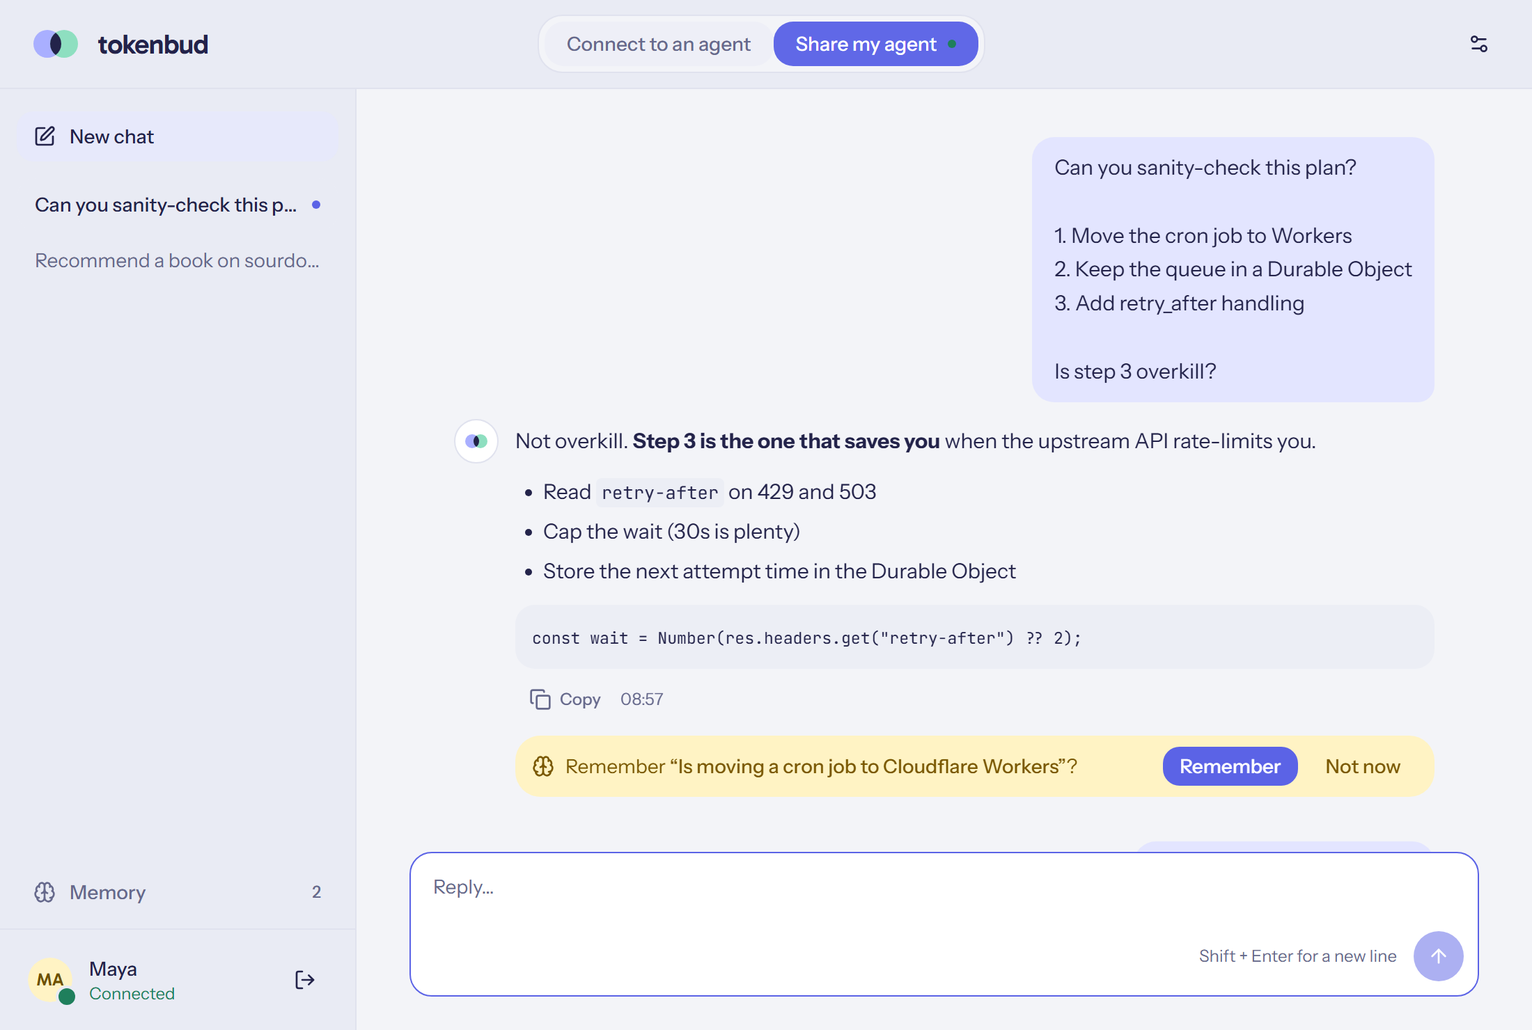
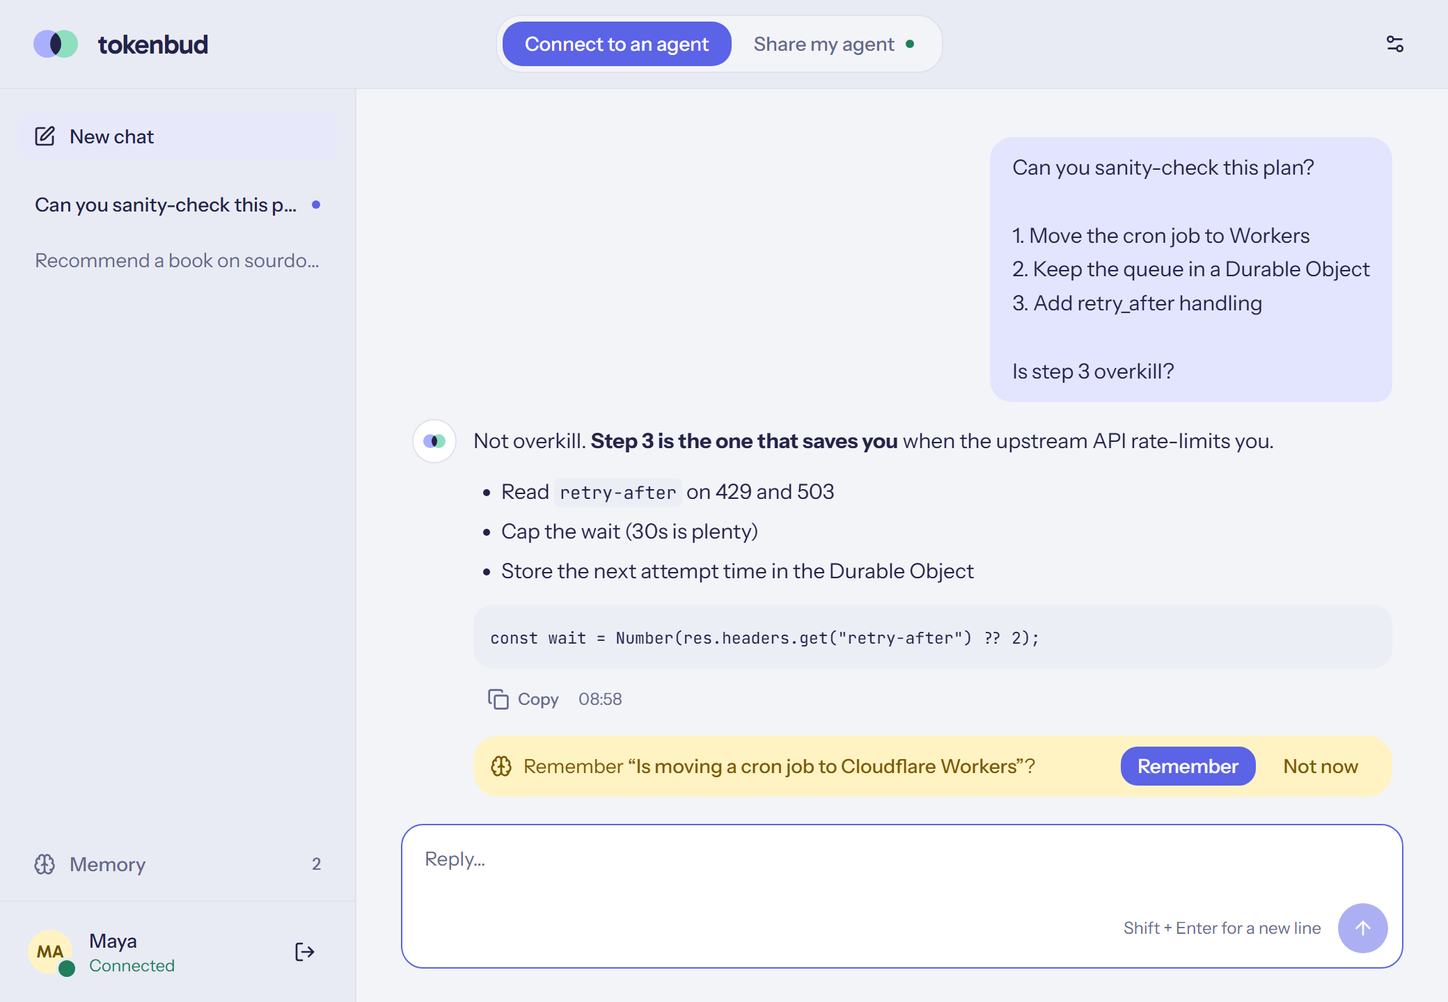
Add release workflow, official README and two-column host layout
- GitHub Actions workflow builds Windows, macOS and Linux installers
  on version tags and attaches them to a draft release
- README rewritten for the public release: badges, screenshots,
  self-hosted relay guide, notes on provider terms
- Host mode lays out in two columns when the window is wide
- Refreshed screenshots; removed unused old-brand icons

diff --git a/desktop/src/host/App.tsx b/desktop/src/host/App.tsx
@@ -20,7 +20,8 @@ export function HostApp({ onSettings }: { onSettings: (section: SettingsSection)
 
   return (
     <div className="h-full overflow-y-auto">
-      <main className="mx-auto w-full max-w-2xl space-y-5 px-8 py-7">
+      {/* One column in a narrow window; side by side once there's room (the window keeps its size). */}
+      <main className="mx-auto w-full max-w-5xl px-6 py-7 sm:px-8">
         <div className="flex items-center justify-between">
           <h1 className="font-display text-2xl font-semibold">Share your agent</h1>
           <label className="flex cursor-pointer items-center gap-3 text-sm font-medium">
@@ -28,9 +29,13 @@ export function HostApp({ onSettings }: { onSettings: (section: SettingsSection)
             <Switch checked={state.status !== "stopped"} onCheckedChange={(on) => call("set_sharing", { on })} aria-label="Share" />
           </label>
         </div>
-        <Credentials state={state} />
-        <Seats state={state} />
-        <Summary state={state} onSettings={onSettings} />
+        <div className="mt-5 grid items-start gap-5 min-[900px]:grid-cols-[minmax(0,1.15fr)_minmax(0,1fr)]">
+          <div className="space-y-5">
+            <Credentials state={state} />
+            <Summary state={state} onSettings={onSettings} />
+          </div>
+          <Seats state={state} />
+        </div>
       </main>
     </div>
   );

diff --git a/README.md b/README.md
@@ -1,92 +1,119 @@
+<div align="center">
+
+<img src="docs/logo.svg" width="96" alt="" />
+
 # tokenbud
 
-Share your AI agent the way you'd share your screen with TeamViewer. You open **tokenbud**, switch to **Share my agent**, and give someone your **ID** and **password**. They type both into tokenbud's **Connect to an agent** mode, or into the tokenbud web page with nothing to install, and chat with your agent. Your Claude login or API key never leaves your computer.
+**Share your AI the way you share your screen.**
+
+Give someone an ID and a password, and they can chat with the model on your computer or your API account. Your keys and your files never leave your machine.
+
+[![License: MIT](https://img.shields.io/badge/license-MIT-5b63e6)](LICENSE)
+[![Platforms](https://img.shields.io/badge/platforms-Windows%20%7C%20macOS%20%7C%20Linux-23234a)](../../releases/latest)
+[![Built with Tauri 2](https://img.shields.io/badge/Tauri-2-24c8db?logo=tauri&logoColor=white)](https://tauri.app)
+[![Rust](https://img.shields.io/badge/Rust-stable-dea584?logo=rust&logoColor=white)](https://www.rust-lang.org)
+[![Relay on Cloudflare Workers](https://img.shields.io/badge/relay-Cloudflare%20Workers-f38020?logo=cloudflare&logoColor=white)](https://workers.cloudflare.com)
+[![Models](https://img.shields.io/badge/models-Ollama%20%7C%20LM%20Studio%20%7C%20OpenAI%20%7C%20Anthropic%20%7C%20more-8edfc0)](#where-answers-come-from)
+
+[**Download**](../../releases/latest) · [How it works](#how-it-works) · [Run your own relay](#run-your-own-relay) · [Build from source](#build-from-source)
+
+<img src="docs/screenshots/share.png" width="820" alt="tokenbud in Share my agent mode: an ID and password, the people connected, and what answers" />
+
+</div>
+
+---
+
+You have a good model running on your desktop, or an API key your teammates keep asking about. They don't need your login and you don't want to hand it over. You'd just like them to be able to *ask*.
+
+**tokenbud** turns that into a two-minute job. Open it, choose **Share my agent**, and read out an ID and a password. The other person types them into tokenbud, or into a web page with nothing to install, and chats with your AI. You decide how many people can use it at once and how much you lend, and you can disconnect anyone with one click. Nothing on your side opens a port; nothing on their side sees a key.
+
+## Highlights
+
+- **TeamViewer-simple.** A 9-digit ID and a password. A new password disconnects everyone.
+- **Seats you control.** Choose how many people can prompt at the same time; everyone else waits for a free seat.
+- **A reserve that protects you.** Lend at most N prompts an hour. Sharing pauses on its own, and people see when it resumes.
+- **Your model, your choice.** A local model in Ollama or LM Studio, or your own key for Anthropic, OpenAI, Google Gemini, Mistral, Groq, DeepSeek, xAI, OpenRouter, or any OpenAI-compatible API.
+- **Nothing to install for guests.** The relay also serves a web client, and the desktop app does the same job.
+- **Local-first memory.** Chats and the facts you want the agent to know stay on your device, and are sent along only while you're connected.
+- **Agent to agent.** `tokenbud mcp` lets your own agent (Claude Code or any MCP client) prompt a shared one.
+- **Light and dark,** with a calm, flat look.
+
+<table>
+  <tr>
+    <td width="50%"><img src="docs/screenshots/chat.png" alt="Chatting with a shared agent, with a suggestion to remember a fact" /></td>
+    <td width="50%"><img src="docs/screenshots/settings.png" alt="Settings: choosing a local model or a provider" /></td>
+  </tr>
+  <tr>
+    <td align="center"><sub>Chat with someone's agent. It can suggest facts to remember, and nothing is saved until you say so.</sub></td>
+    <td align="center"><sub>Pick what answers: a local model, or a provider with your own key.</sub></td>
+  </tr>
+</table>
+
+## How it works
 
 ```
-browser ──HTTPS──▶   relay (Cloudflare Worker + Durable Object)  ◀──WebSocket── tokenbud ──▶ your Claude
-         ◀─answer──                                              ──answer─────▶
+ guest (app or browser) ──HTTPS──▶  relay  ◀──WebSocket── tokenbud (host) ──▶ your model
+                         ◀─answer──  Cloudflare Worker      ──answer───────▶   local or API
 ```
 
-- **The host decides how many people at once.** Each connected person takes a seat. When every seat is taken, the next person is told to try again later. Each person has one prompt running at a time, so the seat count is also the maximum number of prompts running at once.
-- **A new password disconnects everyone,** and so does stopping sharing. You can also disconnect one person.
-- **No open ports.** The host app connects out to the relay.
+1. **The host app connects out** to a small relay on Cloudflare and gets an ID. No open ports, no port forwarding, works behind any router.
+2. **A guest opens a session** with the ID and password. The relay checks the password (it only stores a hash) and gives them a seat if one is free.
+3. **Prompts travel through the relay** to the host, which answers with its model and sends the answer back. Finished prompts are deleted from the relay after 10 minutes.
 
-## What's in the repo
+Each host has its own Durable Object on the relay. It holds the password hash, the seat count and the live sessions, and nothing else.
 
-| Path | What it is |
-|---|---|
-| `relay/` | Cloudflare Worker (TypeScript). Serves the web client at `/` and the API at `/v1`. One Durable Object per host holds its password hash, seats and sessions. |
-| `crates/tokenbud-core` | Shared Rust code: wire types, relay client, config and keychain storage. |
-| `apps/tokenbud-host` | Sharing logic and the two engines (Claude Code, API key). |
-| `apps/tokenbud-client` | Connecting logic and the MCP server. |
-| `apps/desktop` | **tokenbud**, the desktop app (Tauri): host and client modes in one window, plus `tokenbud mcp`. |
-| `desktop/` | All the UI: React, Tailwind and shadcn/ui. `src/app` is the desktop window, `src/web` the browser client, `src/host` and `src/client` the two modes. |
+## Download
 
-## Run it
+Get the latest installer for Windows, macOS or Linux from [**Releases**](../../releases/latest).
 
-1. **Deploy the relay and the web client** (once, and after each change):
+The builds are not code-signed yet, so Windows SmartScreen and macOS Gatekeeper ask for confirmation the first time.
 
-   ```bash
-   cd desktop && npm install && cd ../relay && npm install
-   npm run deploy        # builds the web client, then wrangler deploy
-   ```
+## Use it
 
-   Put the printed URL in `DEFAULT_RELAY_URL` (`crates/tokenbud-core/src/lib.rs`) before building. `TOKENBUD_RELAY` overrides it at run time.
+### Share (host mode)
 
-2. **Build:** you need Rust and Node.js 20+.
+Open tokenbud and click **Share my agent**. Sharing starts right away and shows your ID and password.
 
-   ```bash
-   cd desktop && npm install && npm run build && cd ..
-   cargo build --release
-   ```
+- **People at the same time:** set the number of seats (1–50, default 3). You see who's connected and who's prompting, and can disconnect anyone.
+- **Copy link** gives guests the web client with your ID filled in; they only type the password.
+- **↻** makes a new password and disconnects everyone. The switch at the top stops sharing.
 
-   The build produces `target/release/tokenbud`. `npm run bundle` in `desktop/` makes installers.
+### Connect (client mode)
 
-## Share (host mode)
+Click **Connect to an agent**, or open the relay's address in a browser. Enter the ID and password and start chatting. Start as many chats as you like; follow-ups keep their context. Closing the window or tab gives your seat back.
 
-Open **tokenbud** and click **Share my agent** at the top. Sharing starts the first time you open this mode; after that tokenbud remembers the mode and shares again whenever it opens there. A green dot on the switch means you're sharing, even while you're in the other mode.
+### Settings
 
-- **People at the same time:** use − and + to set the number of seats (1–50, default 3). The list shows who is connected and who is prompting right now, with a **Disconnect** button for each person.
-- The ↻ button next to the password makes a new one. The switch at the top stops sharing.
-- Below that, one line says what answers and one summarises your reserve. **Change** opens Settings.
+The ⚙ button opens Settings:
 
-## Settings
+- **Model.** Where answers come from (see below).
+- **Reserve.** Lend at most N prompts an hour (default 30, rolling). It also shows what you've lent.
+- **Relay.** tokenbud's public relay, or your own.
+- **Appearance.** Light, dark, or match the system.
 
-The ⚙ button in the top bar opens Settings, in three sections.
+The window opens at one size for both modes, remembers the size and position you leave it at, and the layout adapts to the width.
 
-**Model: where answers come from.**
-- **This computer:** a local model in [Ollama](https://ollama.com) or [LM Studio](https://lmstudio.ai), found automatically on their usual ports, or any OpenAI-compatible server address you enter. Pick the model, or leave it on the first available. It's free and private, and no provider's terms are involved.
-- **A provider,** with your own API key: Anthropic, OpenAI, Google Gemini, Mistral, Groq, DeepSeek, xAI, OpenRouter, or **Custom** (any OpenAI-compatible API, such as vLLM or LiteLLM). Each provider keeps its own key in the OS keychain and its own model choice. The model list comes from the provider.
-- **Claude Code (development builds only).** It runs `claude -p` on your own Claude Code login, for testing on your machine. Anthropic's terms don't allow answering other people's prompts with a Claude subscription, so release builds (`cargo build --release`, `npm run bundle`) leave this option out. It runs `claude -p --tools "" --strict-mcp-config --disallowedTools "mcp__*" --max-turns 10 --no-session-persistence` in an empty folder that is deleted afterwards.
+### Where answers come from
 
-Answers from reasoning models arrive without their `<think>` sections. The asker's memory is passed as a system message.
+| Choice | What it uses | Notes |
+|---|---|---|
+| **This computer** | [Ollama](https://ollama.com), [LM Studio](https://lmstudio.ai), or any OpenAI-compatible server | Found automatically on their usual ports. Free and private. |
+| **A provider** | Anthropic, OpenAI, Google Gemini, Mistral, Groq, DeepSeek, xAI, OpenRouter, or Custom | Your own API key, one per provider, kept in the OS keychain. The model list comes from the provider. |
+| **Claude Code** | Your own Claude Code login | Development builds only, for testing on your own machine. See [Using it within the rules](#using-it-within-the-rules). |
 
-**Reserve: keep some for yourself.** Sharing pauses on its own so you never run short, and the people connected see when it resumes:
-- **Lend at most N prompts an hour** (default 30, over a rolling 60 minutes). It also shows what you've lent, with Claude Code's cost estimate when there is one.
-- **Pause while I'm using Claude Code** (only shown with the Claude Code engine). tokenbud notices Claude Code running on your computer, including the Claude desktop app's Code tab, and resumes when it stops. Its own prompts don't count.
+Answers from reasoning models arrive without their `<think>` sections.
 
-**Appearance:** Light, Dark, or Match system.
+### Memory
 
-## Connect (client mode)
+Your chats and a short list of facts about you ("Writes Rust", "Prefers short answers") are kept **only on your device**: in the app's config folder, or in the browser's IndexedDB.
 
-In tokenbud, click **Connect to an agent**. Or open the relay's address in a browser (for example `https://tokenbud-relay.<you>.workers.dev`), or the link from the host's **Copy link** button, which fills in the ID. Enter the password (and, in the browser, your name), then click **Connect**. You can start as many chats as you like with **New chat**, and follow-ups keep the context of their chat. Chats are saved on your device (see Memory below), and a refresh keeps the connection. Closing the tab or clicking **Disconnect** frees your seat. A session that stops checking in ends after 45 seconds.
+- **Facts travel with each prompt** to the agent you're connected to, so it answers knowing you.
+- **The agent can suggest a fact**, which appears as a **Remember / Not now** chip.
+- **Open Memory** in the sidebar to add, edit or delete facts, or to switch memory off.
 
-## Memory (local-first)
+### Your own agent, over MCP
 
-Your chats and a short list of facts about you ("Writes Rust", "Prefers short answers") are kept **only on your device**: in the config folder for the desktop app (`chats.json`, `memory.json`), and in the browser's IndexedDB for the web client.
-
-- **Facts travel with each prompt** to the agent you're connected to, so it answers knowing you. Hosts and the relay never store them.
-- **The agent can suggest a fact.** It ends its answer with a `<remember>…</remember>` tag, which shows up as a **Remember** / **Not now** chip. Nothing is saved until you accept it.
-- **Open Memory** in the sidebar to add, edit or delete facts, or to switch memory off. When it's off, nothing is sent and the agent makes no suggestions.
-- **Limits:** up to 50 facts and the 100 most recent chats.
-
-## Appearance
-
-Light, dark, or matching your system: in **Settings → Appearance** in the app, or from the sun/moon button on the web. The choice is remembered on each device.
-
-## MCP: let your own agent use a shared one
-
-The same executable runs as an MCP server, so Claude Code (or any MCP client) can prompt a shared agent:
+The same executable is also an MCP server, so Claude Code or any MCP client can prompt a shared agent:
 
 ```bash
 claude mcp add tokenbud -e TOKENBUD_ID=418203977 -e TOKENBUD_PASSWORD=k7m2pqxa -- tokenbud mcp
@@ -94,38 +121,117 @@ claude mcp add tokenbud -e TOKENBUD_ID=418203977 -e TOKENBUD_PASSWORD=k7m2pqxa -
 
 It adds one tool, `ask(prompt)`. Each call takes a seat only while it runs.
 
-## Security
+## Run your own relay
 
-- The relay stores only SHA-256 hashes of the host secret, the password and session tokens. After 10 wrong passwords in a minute, connecting to that host pauses.
-- The relay sees prompts and answers in transit and deletes finished ones after 10 minutes. Run your own relay if that matters to you.
-- Prompts run on your Claude account or API key and count against your limits or bill.
+tokenbud uses a public relay by default. It's free and best effort. You can run your own on Cloudflare's free plan in a few minutes, and then only the people you choose share it.
 
-## Relay API
-
-| Method & path | Auth | Purpose |
-|---|---|---|
-| `POST /v1/hosts` | none | New host. Returns `host_id` (9 digits) and `host_secret`. |
-| `GET /v1/hosts/:id/connect` (WebSocket) | host secret | The host's channel. |
-| `POST /v1/hosts/:id/sessions` `{password, name}` | none | Take a seat. Returns `session_token`. Errors: 401 wrong password, 409 no free seat, 503 not sharing. |
-| `DELETE /v1/hosts/:id/sessions` | session | Leave. |
-| `GET /v1/hosts/:id/ping` | session | Keep the seat (every 15s; 45s without one ends the session). Also returns `online` and `paused` (`{kind: "limit" \| "busy", until}` or null). |
-| `POST /v1/hosts/:id/ask` `{prompt, history, context?}` | session | Send a prompt. `context` is the asker's memory (at most 10,000 chars), given to the agent before the prompt. Returns `job_id`. 409 if one is already running. |
-| `GET /v1/hosts/:id/jobs/:job?wait=25` | session | The answer, with long-polling. |
-
-On the WebSocket:
-- **The host sends** `config {password, seats, name}`, `pause {paused}`, `kick {session_id}` and `result {job_id, status, text?, error?}`. While paused, the relay answers `ask` with 503.
-- **The relay sends** `sessions`, `job` and `cancel`.
-
-## Development
+**You need** a free [Cloudflare account](https://dash.cloudflare.com/sign-up) and [Node.js](https://nodejs.org) 20 or later.
 
 ```bash
-cd relay && npm run dev        # relay + web client on :8787; run the app with TOKENBUD_RELAY=http://127.0.0.1:8787
-cd desktop && npm run app      # the desktop app with hot reload
-cd desktop && npm run dev:web  # web client with hot reload on :1422 (proxies /v1 to :8787)
-cd desktop && npm run preview:ui
-# then open http://localhost:1430/preview.html (or ?connect=1 for the connect screen)
+git clone <this repository> tokenbud
+cd tokenbud/desktop && npm install      # the web client is built from here
+cd ../relay && npm install
+npx wrangler login                      # opens the browser once
+npm run deploy                          # builds the web client, then deploys the Worker
 ```
 
-`TOKENBUD_HOME=/some/dir` keeps an instance's config in that folder, so you can run several on one machine.
+The deploy prints your relay's address, such as `https://tokenbud-relay.<you>.workers.dev`. Then:
 
-To test without the desktop window, `cargo run -p tokenbud-host --example share` shares from a terminal and prints the ID and password. It's a dev harness only, not something that ships.
+1. In tokenbud, open **Settings → Relay**, choose **My own relay**, paste the address, and click **Use this relay**. The app checks that it's a tokenbud relay before switching.
+2. Everyone you share with, and everyone you connect to, has to use the same relay. Guests can also simply open the relay's address in a browser.
+3. You get a separate ID on each relay. Your ID on the public relay is kept.
+
+Good to know:
+- **Free plan limits.** The Workers free plan allows about 100,000 requests a day. A connected guest checks in about every 15 seconds, so that's roughly 15 to 20 people connected all day. The $5 paid plan removes the worry.
+- **Custom domain.** Add one in the Cloudflare dashboard if you'd like a nicer address.
+- **Environment override.** `TOKENBUD_RELAY=https://…` overrides the setting, which is handy for scripts and testing.
+- **Updates.** Run `npm run deploy` again after updating tokenbud.
+
+To make your relay the default in builds you hand out, change `DEFAULT_RELAY_URL` in `crates/tokenbud-core/src/lib.rs`.
+
+## Build from source
+
+You need Rust (stable) and Node.js 20 or later. On Linux, also the [Tauri prerequisites](https://v2.tauri.app/start/prerequisites/).
+
+```bash
+cd desktop && npm install && npm run build && cd ..
+cargo build --release
+```
+
+The app is `target/release/tokenbud`. To make installers, run `npm run bundle` in `desktop/`. For a release on GitHub, push a version tag: the [release workflow](.github/workflows/release.yml) builds Windows, macOS and Linux installers and attaches them to a draft release.
+
+```bash
+git tag v0.1.0 && git push origin v0.1.0
+```
+
+## Using it within the rules
+
+tokenbud never sees or moves a credential. But model providers decide what their accounts may be used for, so here's how each choice fits:
+
+- **Local models** involve no provider at all.
+- **Provider keys** are meant for building on, including for other people. You're responsible for how your key is used, and providers forbid reselling access, so share, don't sell.
+- **Claude subscriptions** (Free, Pro, Max) are for individual use. Anthropic's terms don't allow answering other people's prompts with them. That's why the Claude Code engine exists only in development builds. To share Claude, use an Anthropic API key.
+
+## Security and privacy
+
+- The relay stores only SHA-256 hashes of host secrets, passwords and session tokens. Ten wrong passwords in a minute pause connections to that host.
+- The relay sees prompts and answers in transit and deletes finished ones after 10 minutes. Run your own relay if that matters to you.
+- Keys and secrets live in the OS keychain (Windows Credential Manager, macOS Keychain, Linux keyring).
+- With a local model, prompts never leave the two computers and the relay.
+
+## Project layout
+
+| Path | What it is |
+|---|---|
+| `apps/desktop` | **tokenbud**, the desktop app (Tauri 2): host and client modes, and `tokenbud mcp` |
+| `apps/tokenbud-host` | Sharing: the relay connection, seats, the reserve, and the model engines |
+| `apps/tokenbud-client` | Connecting by ID and password, and the MCP server |
+| `crates/tokenbud-core` | Wire types, relay client, settings and keychain storage |
+| `relay/` | The Cloudflare Worker: web client at `/`, API at `/v1` |
+| `desktop/` | All the UI: React, Tailwind and shadcn/ui. `src/app` is the desktop window, `src/web` the browser client |
+
+<details>
+<summary><b>Development</b></summary>
+
+```bash
+cd relay && npm run dev           # relay + web client on :8787
+cd desktop && npm run app         # the desktop app with hot reload
+cd desktop && npm run dev:web     # web client with hot reload on :1422 (proxies /v1 to :8787)
+cd desktop && npm run preview:ui  # the app's UI in a browser with sample data
+```
+
+Run the app against the local relay with `TOKENBUD_RELAY=http://127.0.0.1:8787`.
+- `TOKENBUD_HOME=/some/dir` keeps an instance's settings in that folder, so several can run on one machine.
+- `cargo run -p tokenbud-host --example share` shares from a terminal and prints the ID and password. It's useful for testing without the window.
+
+In the UI preview, `?steps=host,settings:model` clicks through to a screen, `?theme=dark` forces dark mode, and `?connect=1` shows the connect screen. The README screenshots are taken that way.
+
+</details>
+
+<details>
+<summary><b>Relay API</b></summary>
+
+| Method and path | Auth | Purpose |
+|---|---|---|
+| `POST /v1/hosts` | none | New host: returns `host_id` (9 digits) and `host_secret`. |
+| `GET /v1/hosts/:id/connect` (WebSocket) | host secret | The host's channel. |
+| `POST /v1/hosts/:id/sessions` `{password, name}` | none | Take a seat. Returns `session_token`. 401 wrong password, 409 no free seat, 503 not sharing. |
+| `DELETE /v1/hosts/:id/sessions` | session | Leave. |
+| `GET /v1/hosts/:id/ping` | session | Keep the seat (every 15 s; 45 s without one ends the session). Returns `online` and `paused`. |
+| `POST /v1/hosts/:id/ask` `{prompt, history, context?}` | session | Send a prompt. `context` carries the guest's memory (at most 10,000 characters). 409 if one is already running, 503 while paused. |
+| `GET /v1/hosts/:id/jobs/:job?wait=25` | session | The answer, with long-polling. |
+| `GET /health` | none | `{"service": "tokenbud-relay"}` |
+
+On the WebSocket:
+- **The host sends** `config {password, seats, name}`, `pause {paused}`, `kick {session_id}` and `result {job_id, status, text?, error?}`.
+- **The relay sends** `sessions`, `job` and `cancel`.
+
+</details>
+
+## Contributing
+
+tokenbud is a hobby project, maintained when time allows. Issues and pull requests are welcome; small and focused ones are easiest to review. Please run `cargo check --workspace` and `npx tsc --noEmit` in `desktop/` and `relay/` before sending a change.
+
+## License
+
+[MIT](LICENSE). Model providers' own terms still apply to the keys and accounts you use with it.
